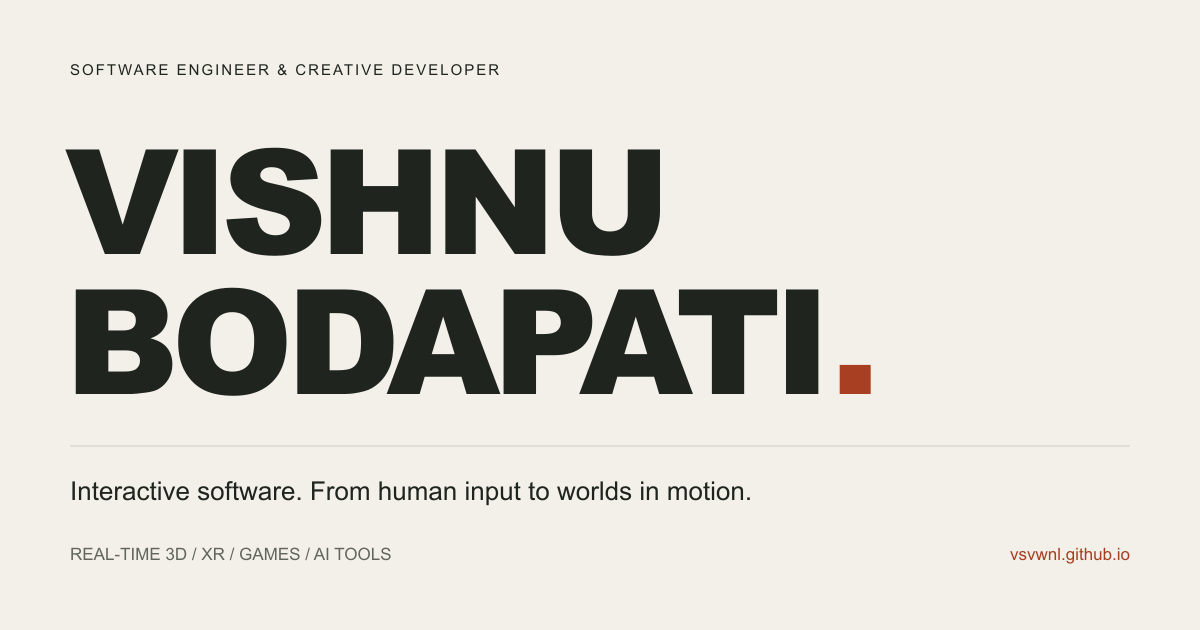
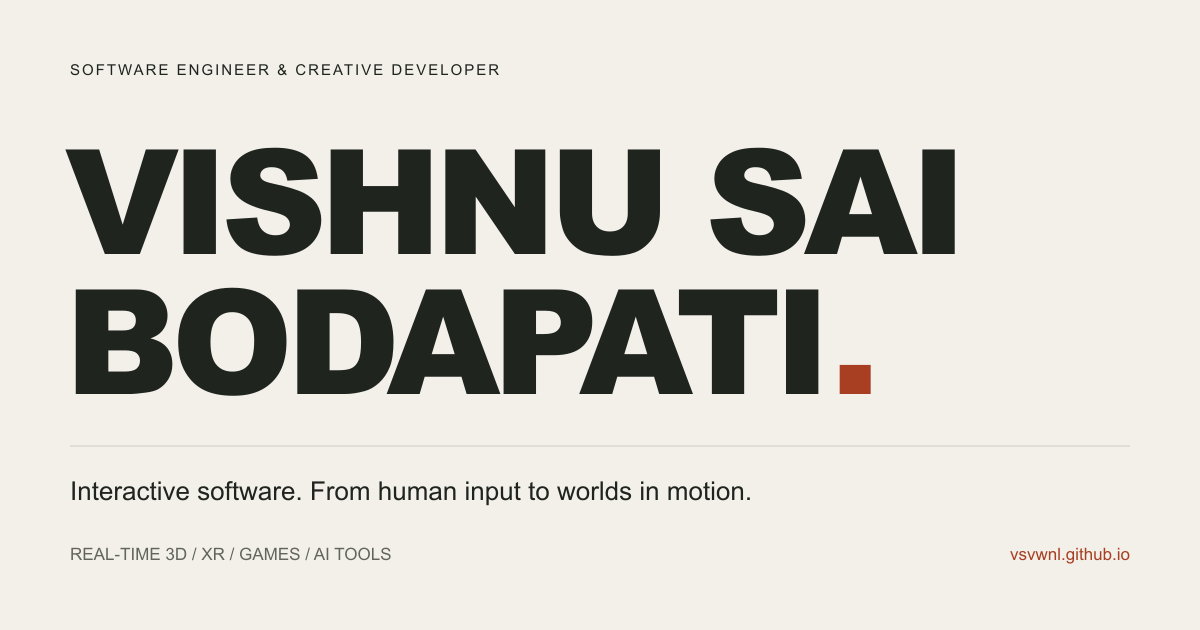
Use Vishnu Sai Bodapati throughout portfolio

Changed region(s): [[0.5858, 0.2111, 0.8017, 0.4222]]

diff --git a/index.html b/index.html
@@ -5,39 +5,39 @@
     <meta name="viewport" content="width=device-width, initial-scale=1.0" />
     <meta name="color-scheme" content="light" />
     <meta name="theme-color" content="#f2f0e9" />
-    <title>Vishnu Bodapati — Software Engineer &amp; Creative Developer</title>
+    <title>Vishnu Sai Bodapati — Software Engineer &amp; Creative Developer</title>
     <meta
       name="description"
-      content="Interactive software connecting real-time 3D, human input and intelligent tools. Explore Vishnu Bodapati's XR research, spatial tools, games and AI applications."
+      content="Interactive software connecting real-time 3D, human input and intelligent tools. Explore Vishnu Sai Bodapati's XR research, spatial tools, games and AI applications."
     />
-    <meta name="author" content="Vishnu Sai Vardhan Bodapati" />
+    <meta name="author" content="Vishnu Sai Bodapati" />
     <link rel="canonical" href="https://vsvwnl.github.io/" />
     <meta property="og:type" content="website" />
-    <meta property="og:site_name" content="Vishnu Bodapati" />
+    <meta property="og:site_name" content="Vishnu Sai Bodapati" />
     <meta
       property="og:title"
-      content="Vishnu Bodapati — Software Engineer &amp; Creative Developer"
+      content="Vishnu Sai Bodapati — Software Engineer &amp; Creative Developer"
     />
     <meta
       property="og:description"
-      content="Interactive software connecting real-time 3D, human input and intelligent tools. Explore Vishnu Bodapati's XR research, spatial tools, games and AI applications."
+      content="Interactive software connecting real-time 3D, human input and intelligent tools. Explore Vishnu Sai Bodapati's XR research, spatial tools, games and AI applications."
     />
     <meta property="og:url" content="https://vsvwnl.github.io/" />
     <meta property="og:image" content="https://vsvwnl.github.io/og.png" />
     <meta
       property="og:image:alt"
-      content="Vishnu Bodapati — interactive software, real-time 3D, games and AI tools."
+      content="Vishnu Sai Bodapati — interactive software, real-time 3D, games and AI tools."
     />
     <meta property="og:image:width" content="1200" />
     <meta property="og:image:height" content="630" />
     <meta name="twitter:card" content="summary_large_image" />
     <meta
       name="twitter:title"
-      content="Vishnu Bodapati — Software Engineer &amp; Creative Developer"
+      content="Vishnu Sai Bodapati — Software Engineer &amp; Creative Developer"
     />
     <meta
       name="twitter:description"
-      content="Interactive software connecting real-time 3D, human input and intelligent tools. Explore Vishnu Bodapati's XR research, spatial tools, games and AI applications."
+      content="Interactive software connecting real-time 3D, human input and intelligent tools. Explore Vishnu Sai Bodapati's XR research, spatial tools, games and AI applications."
     />
     <meta name="twitter:image" content="https://vsvwnl.github.io/og.png" />
     <link rel="icon" type="image/svg+xml" href="/favicon.svg" />
@@ -52,7 +52,7 @@
       {
         "@context": "https://schema.org",
         "@type": "Person",
-        "name": "Vishnu Sai Vardhan Bodapati",
+        "name": "Vishnu Sai Bodapati",
         "alternateName": "VSVwnl",
         "url": "https://vsvwnl.github.io/",
         "jobTitle": "Software engineer & creative developer",

diff --git a/work/draft-usa/index.html b/work/draft-usa/index.html
@@ -5,16 +5,16 @@
     <meta name="viewport" content="width=device-width, initial-scale=1.0" />
     <meta name="color-scheme" content="light" />
     <meta name="theme-color" content="#f2f0e9" />
-    <title>Draft USA — Vishnu Bodapati</title>
+    <title>Draft USA — Vishnu Sai Bodapati</title>
     <meta
       name="description"
       content="A Next.js and TypeScript Team USA fan-drafting prototype. Server-side Gemini analysis, dashboards and responsible recommendations. Hackathon honorable mention."
     />
-    <meta name="author" content="Vishnu Sai Vardhan Bodapati" />
+    <meta name="author" content="Vishnu Sai Bodapati" />
     <link rel="canonical" href="https://vsvwnl.github.io/work/draft-usa/" />
     <meta property="og:type" content="website" />
-    <meta property="og:site_name" content="Vishnu Bodapati" />
-    <meta property="og:title" content="Draft USA — Vishnu Bodapati" />
+    <meta property="og:site_name" content="Vishnu Sai Bodapati" />
+    <meta property="og:title" content="Draft USA — Vishnu Sai Bodapati" />
     <meta
       property="og:description"
       content="A Next.js and TypeScript Team USA fan-drafting prototype. Server-side Gemini analysis, dashboards and responsible recommendations. Hackathon honorable mention."
@@ -26,12 +26,12 @@
     <meta property="og:image" content="https://vsvwnl.github.io/og.png" />
     <meta
       property="og:image:alt"
-      content="Vishnu Bodapati — interactive software, real-time 3D, games and AI tools."
+      content="Vishnu Sai Bodapati — interactive software, real-time 3D, games and AI tools."
     />
     <meta property="og:image:width" content="1200" />
     <meta property="og:image:height" content="630" />
     <meta name="twitter:card" content="summary_large_image" />
-    <meta name="twitter:title" content="Draft USA — Vishnu Bodapati" />
+    <meta name="twitter:title" content="Draft USA — Vishnu Sai Bodapati" />
     <meta
       name="twitter:description"
       content="A Next.js and TypeScript Team USA fan-drafting prototype. Server-side Gemini analysis, dashboards and responsible recommendations. Hackathon honorable mention."

diff --git a/work/cinemascout/index.html b/work/cinemascout/index.html
@@ -5,16 +5,16 @@
     <meta name="viewport" content="width=device-width, initial-scale=1.0" />
     <meta name="color-scheme" content="light" />
     <meta name="theme-color" content="#f2f0e9" />
-    <title>CinemaScout — Vishnu Bodapati</title>
+    <title>CinemaScout — Vishnu Sai Bodapati</title>
     <meta
       name="description"
       content="Virtual cinema cameras and spline-based shot playback inside 3D Gaussian Splat reconstructions. My Unity and XR work on the award-winning team prototype."
     />
-    <meta name="author" content="Vishnu Sai Vardhan Bodapati" />
+    <meta name="author" content="Vishnu Sai Bodapati" />
     <link rel="canonical" href="https://vsvwnl.github.io/work/cinemascout/" />
     <meta property="og:type" content="website" />
-    <meta property="og:site_name" content="Vishnu Bodapati" />
-    <meta property="og:title" content="CinemaScout — Vishnu Bodapati" />
+    <meta property="og:site_name" content="Vishnu Sai Bodapati" />
+    <meta property="og:title" content="CinemaScout — Vishnu Sai Bodapati" />
     <meta
       property="og:description"
       content="Virtual cinema cameras and spline-based shot playback inside 3D Gaussian Splat reconstructions. My Unity and XR work on the award-winning team prototype."
@@ -26,12 +26,12 @@
     <meta property="og:image" content="https://vsvwnl.github.io/og.png" />
     <meta
       property="og:image:alt"
-      content="Vishnu Bodapati — interactive software, real-time 3D, games and AI tools."
+      content="Vishnu Sai Bodapati — interactive software, real-time 3D, games and AI tools."
     />
     <meta property="og:image:width" content="1200" />
     <meta property="og:image:height" content="630" />
     <meta name="twitter:card" content="summary_large_image" />
-    <meta name="twitter:title" content="CinemaScout — Vishnu Bodapati" />
+    <meta name="twitter:title" content="CinemaScout — Vishnu Sai Bodapati" />
     <meta
       name="twitter:description"
       content="Virtual cinema cameras and spline-based shot playback inside 3D Gaussian Splat reconstructions. My Unity and XR work on the award-winning team prototype."

diff --git a/work/mr-blueprint/index.html b/work/mr-blueprint/index.html
@@ -5,16 +5,16 @@
     <meta name="viewport" content="width=device-width, initial-scale=1.0" />
     <meta name="color-scheme" content="light" />
     <meta name="theme-color" content="#f2f0e9" />
-    <title>MR Blueprint — Vishnu Bodapati</title>
+    <title>MR Blueprint — Vishnu Sai Bodapati</title>
     <meta
       name="description"
       content="A Meta Quest mixed reality physics sandbox. Object manipulation, world-space inspectors and Edit / Simulate workflows. DesignXR 2026 Grand Winner."
     />
-    <meta name="author" content="Vishnu Sai Vardhan Bodapati" />
+    <meta name="author" content="Vishnu Sai Bodapati" />
     <link rel="canonical" href="https://vsvwnl.github.io/work/mr-blueprint/" />
     <meta property="og:type" content="website" />
-    <meta property="og:site_name" content="Vishnu Bodapati" />
-    <meta property="og:title" content="MR Blueprint — Vishnu Bodapati" />
+    <meta property="og:site_name" content="Vishnu Sai Bodapati" />
+    <meta property="og:title" content="MR Blueprint — Vishnu Sai Bodapati" />
     <meta
       property="og:description"
       content="A Meta Quest mixed reality physics sandbox. Object manipulation, world-space inspectors and Edit / Simulate workflows. DesignXR 2026 Grand Winner."
@@ -26,12 +26,12 @@
     <meta property="og:image" content="https://vsvwnl.github.io/og.png" />
     <meta
       property="og:image:alt"
-      content="Vishnu Bodapati — interactive software, real-time 3D, games and AI tools."
+      content="Vishnu Sai Bodapati — interactive software, real-time 3D, games and AI tools."
     />
     <meta property="og:image:width" content="1200" />
     <meta property="og:image:height" content="630" />
     <meta name="twitter:card" content="summary_large_image" />
-    <meta name="twitter:title" content="MR Blueprint — Vishnu Bodapati" />
+    <meta name="twitter:title" content="MR Blueprint — Vishnu Sai Bodapati" />
     <meta
       name="twitter:description"
       content="A Meta Quest mixed reality physics sandbox. Object manipulation, world-space inspectors and Edit / Simulate workflows. DesignXR 2026 Grand Winner."

diff --git a/work/index.html b/work/index.html
@@ -5,16 +5,16 @@
     <meta name="viewport" content="width=device-width, initial-scale=1.0" />
     <meta name="color-scheme" content="light" />
     <meta name="theme-color" content="#f2f0e9" />
-    <title>Work — Vishnu Bodapati</title>
+    <title>Work — Vishnu Sai Bodapati</title>
     <meta
       name="description"
       content="CinemaScout, Lumi VR, MR Blueprint and Draft USA: personal contributions, engineering decisions and working evidence. Plus games, computer vision and prototypes."
     />
-    <meta name="author" content="Vishnu Sai Vardhan Bodapati" />
+    <meta name="author" content="Vishnu Sai Bodapati" />
     <link rel="canonical" href="https://vsvwnl.github.io/work/" />
     <meta property="og:type" content="website" />
-    <meta property="og:site_name" content="Vishnu Bodapati" />
-    <meta property="og:title" content="Work — Vishnu Bodapati" />
+    <meta property="og:site_name" content="Vishnu Sai Bodapati" />
+    <meta property="og:title" content="Work — Vishnu Sai Bodapati" />
     <meta
       property="og:description"
       content="CinemaScout, Lumi VR, MR Blueprint and Draft USA: personal contributions, engineering decisions and working evidence. Plus games, computer vision and prototypes."
@@ -23,12 +23,12 @@
     <meta property="og:image" content="https://vsvwnl.github.io/og.png" />
     <meta
       property="og:image:alt"
-      content="Vishnu Bodapati — interactive software, real-time 3D, games and AI tools."
+      content="Vishnu Sai Bodapati — interactive software, real-time 3D, games and AI tools."
     />
     <meta property="og:image:width" content="1200" />
     <meta property="og:image:height" content="630" />
     <meta name="twitter:card" content="summary_large_image" />
-    <meta name="twitter:title" content="Work — Vishnu Bodapati" />
+    <meta name="twitter:title" content="Work — Vishnu Sai Bodapati" />
     <meta
       name="twitter:description"
       content="CinemaScout, Lumi VR, MR Blueprint and Draft USA: personal contributions, engineering decisions and working evidence. Plus games, computer vision and prototypes."

diff --git a/work/lumi-vr/index.html b/work/lumi-vr/index.html
@@ -5,16 +5,16 @@
     <meta name="viewport" content="width=device-width, initial-scale=1.0" />
     <meta name="color-scheme" content="light" />
     <meta name="theme-color" content="#f2f0e9" />
-    <title>Lumi VR — Vishnu Bodapati</title>
+    <title>Lumi VR — Vishnu Sai Bodapati</title>
     <meta
       name="description"
       content="Unity and C# gameplay for seated ICU rehabilitation research at Duke's I3T Lab. Calibration, accessible input, clear feedback and repeatable sessions."
     />
-    <meta name="author" content="Vishnu Sai Vardhan Bodapati" />
+    <meta name="author" content="Vishnu Sai Bodapati" />
     <link rel="canonical" href="https://vsvwnl.github.io/work/lumi-vr/" />
     <meta property="og:type" content="website" />
-    <meta property="og:site_name" content="Vishnu Bodapati" />
-    <meta property="og:title" content="Lumi VR — Vishnu Bodapati" />
+    <meta property="og:site_name" content="Vishnu Sai Bodapati" />
+    <meta property="og:title" content="Lumi VR — Vishnu Sai Bodapati" />
     <meta
       property="og:description"
       content="Unity and C# gameplay for seated ICU rehabilitation research at Duke's I3T Lab. Calibration, accessible input, clear feedback and repeatable sessions."
@@ -23,12 +23,12 @@
     <meta property="og:image" content="https://vsvwnl.github.io/og.png" />
     <meta
       property="og:image:alt"
-      content="Vishnu Bodapati — interactive software, real-time 3D, games and AI tools."
+      content="Vishnu Sai Bodapati — interactive software, real-time 3D, games and AI tools."
     />
     <meta property="og:image:width" content="1200" />
     <meta property="og:image:height" content="630" />
     <meta name="twitter:card" content="summary_large_image" />
-    <meta name="twitter:title" content="Lumi VR — Vishnu Bodapati" />
+    <meta name="twitter:title" content="Lumi VR — Vishnu Sai Bodapati" />
     <meta
       name="twitter:description"
       content="Unity and C# gameplay for seated ICU rehabilitation research at Duke's I3T Lab. Calibration, accessible input, clear feedback and repeatable sessions."

diff --git a/about/index.html b/about/index.html
@@ -5,16 +5,16 @@
     <meta name="viewport" content="width=device-width, initial-scale=1.0" />
     <meta name="color-scheme" content="light" />
     <meta name="theme-color" content="#f2f0e9" />
-    <title>About — Vishnu Bodapati</title>
+    <title>About — Vishnu Sai Bodapati</title>
     <meta
       name="description"
       content="Software engineer and creative developer. Duke I3T Lab VR research assistant and M.Eng. candidate, expected May 2027. Experience, education and resume."
     />
-    <meta name="author" content="Vishnu Sai Vardhan Bodapati" />
+    <meta name="author" content="Vishnu Sai Bodapati" />
     <link rel="canonical" href="https://vsvwnl.github.io/about/" />
     <meta property="og:type" content="website" />
-    <meta property="og:site_name" content="Vishnu Bodapati" />
-    <meta property="og:title" content="About — Vishnu Bodapati" />
+    <meta property="og:site_name" content="Vishnu Sai Bodapati" />
+    <meta property="og:title" content="About — Vishnu Sai Bodapati" />
     <meta
       property="og:description"
       content="Software engineer and creative developer. Duke I3T Lab VR research assistant and M.Eng. candidate, expected May 2027. Experience, education and resume."
@@ -23,12 +23,12 @@
     <meta property="og:image" content="https://vsvwnl.github.io/og.png" />
     <meta
       property="og:image:alt"
-      content="Vishnu Bodapati — interactive software, real-time 3D, games and AI tools."
+      content="Vishnu Sai Bodapati — interactive software, real-time 3D, games and AI tools."
     />
     <meta property="og:image:width" content="1200" />
     <meta property="og:image:height" content="630" />
     <meta name="twitter:card" content="summary_large_image" />
-    <meta name="twitter:title" content="About — Vishnu Bodapati" />
+    <meta name="twitter:title" content="About — Vishnu Sai Bodapati" />
     <meta
       name="twitter:description"
       content="Software engineer and creative developer. Duke I3T Lab VR research assistant and M.Eng. candidate, expected May 2027. Experience, education and resume."

diff --git a/src/pages/HomePage.jsx b/src/pages/HomePage.jsx
@@ -18,7 +18,7 @@ export default function HomePage() {
         </div>
         <div className="hero-layout">
           <h1 id="intro-title" className="hero-name">
-            Vishnu
+            Vishnu Sai
             <br />
             <span>
               Bodapati<span className="accent">.</span>
@@ -136,7 +136,7 @@ export default function HomePage() {
         <div className="about-portrait">
           <img
             src="/Assets/profile/vishnu-headshot.jpg"
-            alt="Vishnu Bodapati"
+            alt="Vishnu Sai Bodapati"
             width="1066"
             height="1600"
             loading="lazy"

diff --git a/src/components/SiteHeader.jsx b/src/components/SiteHeader.jsx
@@ -33,11 +33,11 @@ export default function SiteHeader({ current }) {
   return (
     <header ref={header} className="site-header">
       <div className="stage header-inner">
-        <a className="wordmark" href="/" aria-label="Vishnu Bodapati — home">
+        <a className="wordmark" href="/" aria-label="Vishnu Sai Bodapati — home">
           <span className="monogram" aria-hidden="true">
             vb.
           </span>
-          <span>Vishnu Bodapati</span>
+          <span>Vishnu Sai Bodapati</span>
         </a>
         <button
           ref={toggle}

diff --git a/src/data/profile.js b/src/data/profile.js
@@ -1,8 +1,8 @@
 // ─── Identity and site-wide content ──────────────────────────────────────────
 
 export const profile = {
-  name: "Vishnu Sai Vardhan Bodapati",
-  shortName: "Vishnu Bodapati",
+  name: "Vishnu Sai Bodapati",
+  shortName: "Vishnu Sai Bodapati",
   role: "Software engineer & creative developer",
   headline: "Real-time systems, spatial tools, and games.",
   intro:

diff --git a/src/components/SiteFooter.jsx b/src/components/SiteFooter.jsx
@@ -46,7 +46,7 @@ export default function SiteFooter() {
           </div>
         </div>
         <div className="footer-bottom">
-          <p>© {new Date().getFullYear()} Vishnu Sai Vardhan Bodapati</p>
+          <p>© {new Date().getFullYear()} Vishnu Sai Bodapati</p>
           <p>Built with care. Made to be explored.</p>
           <a href="#main" className="text-link">
             Back to top ↑

diff --git a/src/pages/AboutPage.jsx b/src/pages/AboutPage.jsx
@@ -9,7 +9,7 @@ export default function AboutPage() {
       <div className="stage">
         <header className="about-intro">
           <div>
-            <p className="eyebrow">About / Vishnu Bodapati</p>
+            <p className="eyebrow">About / Vishnu Sai Bodapati</p>
             <h1>
               Thinking in systems.
               <br />
